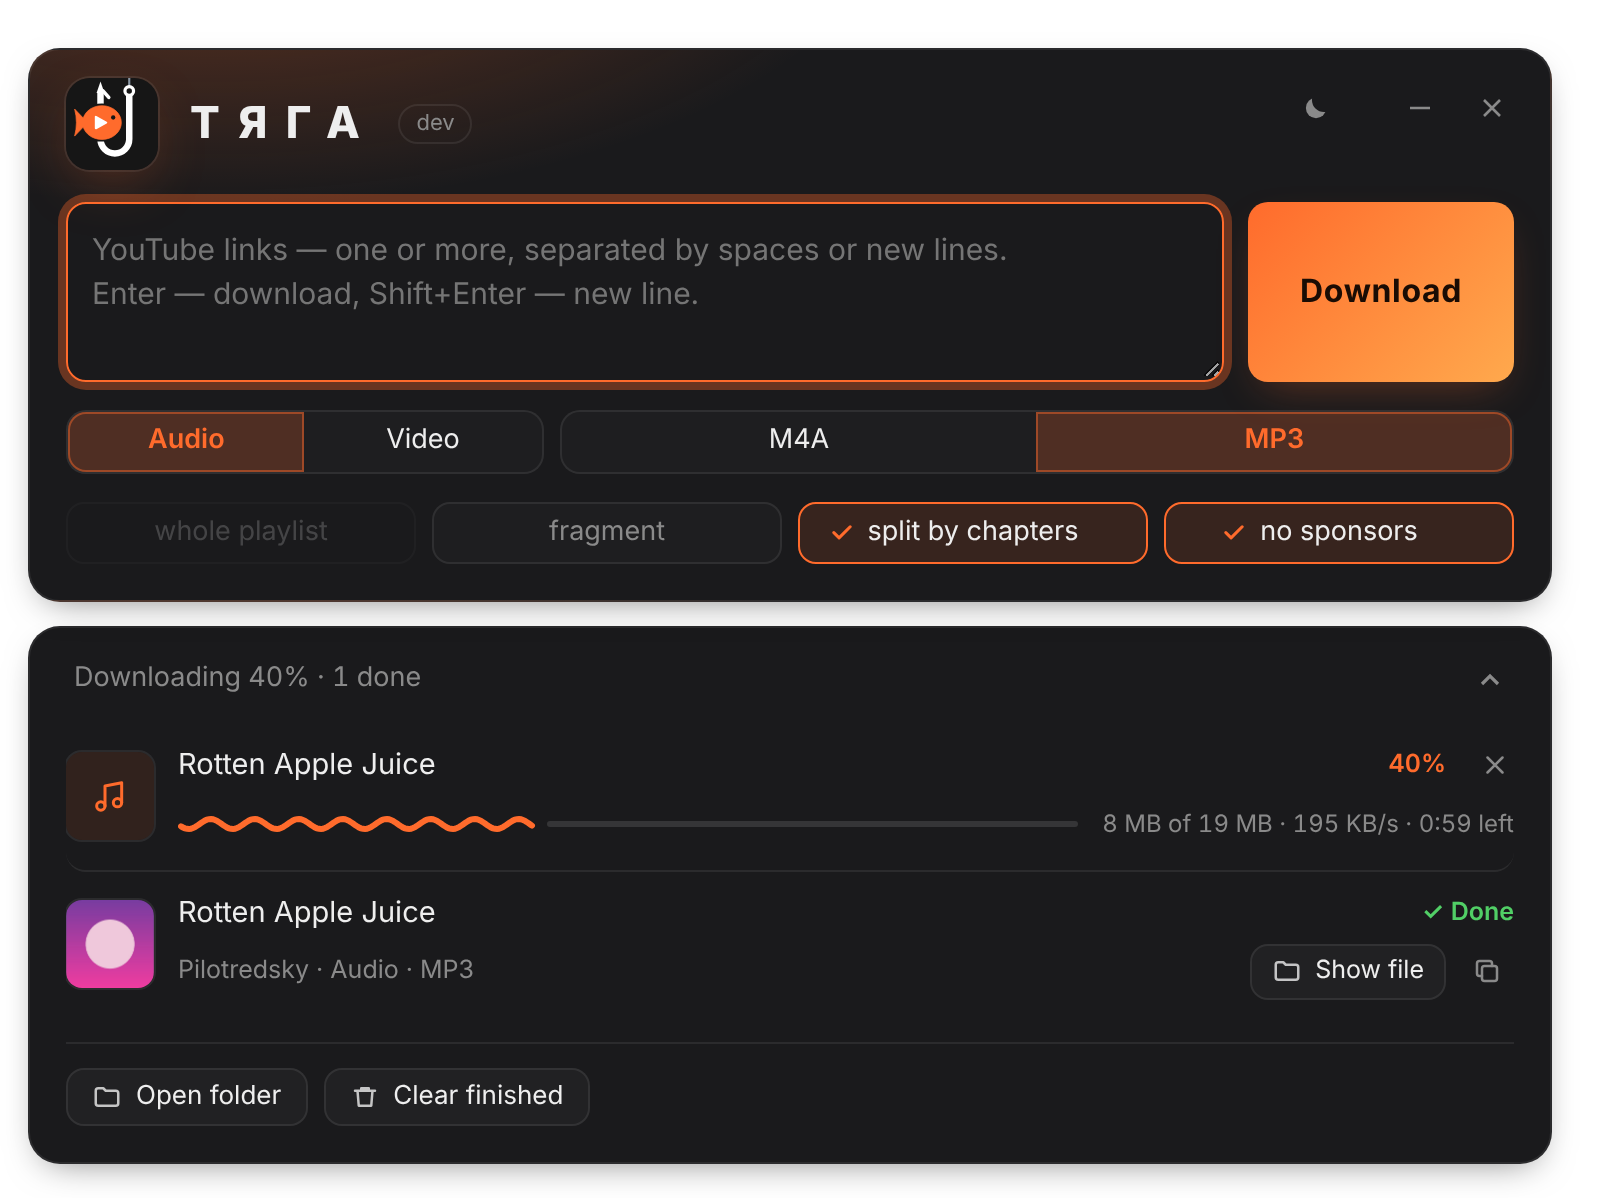
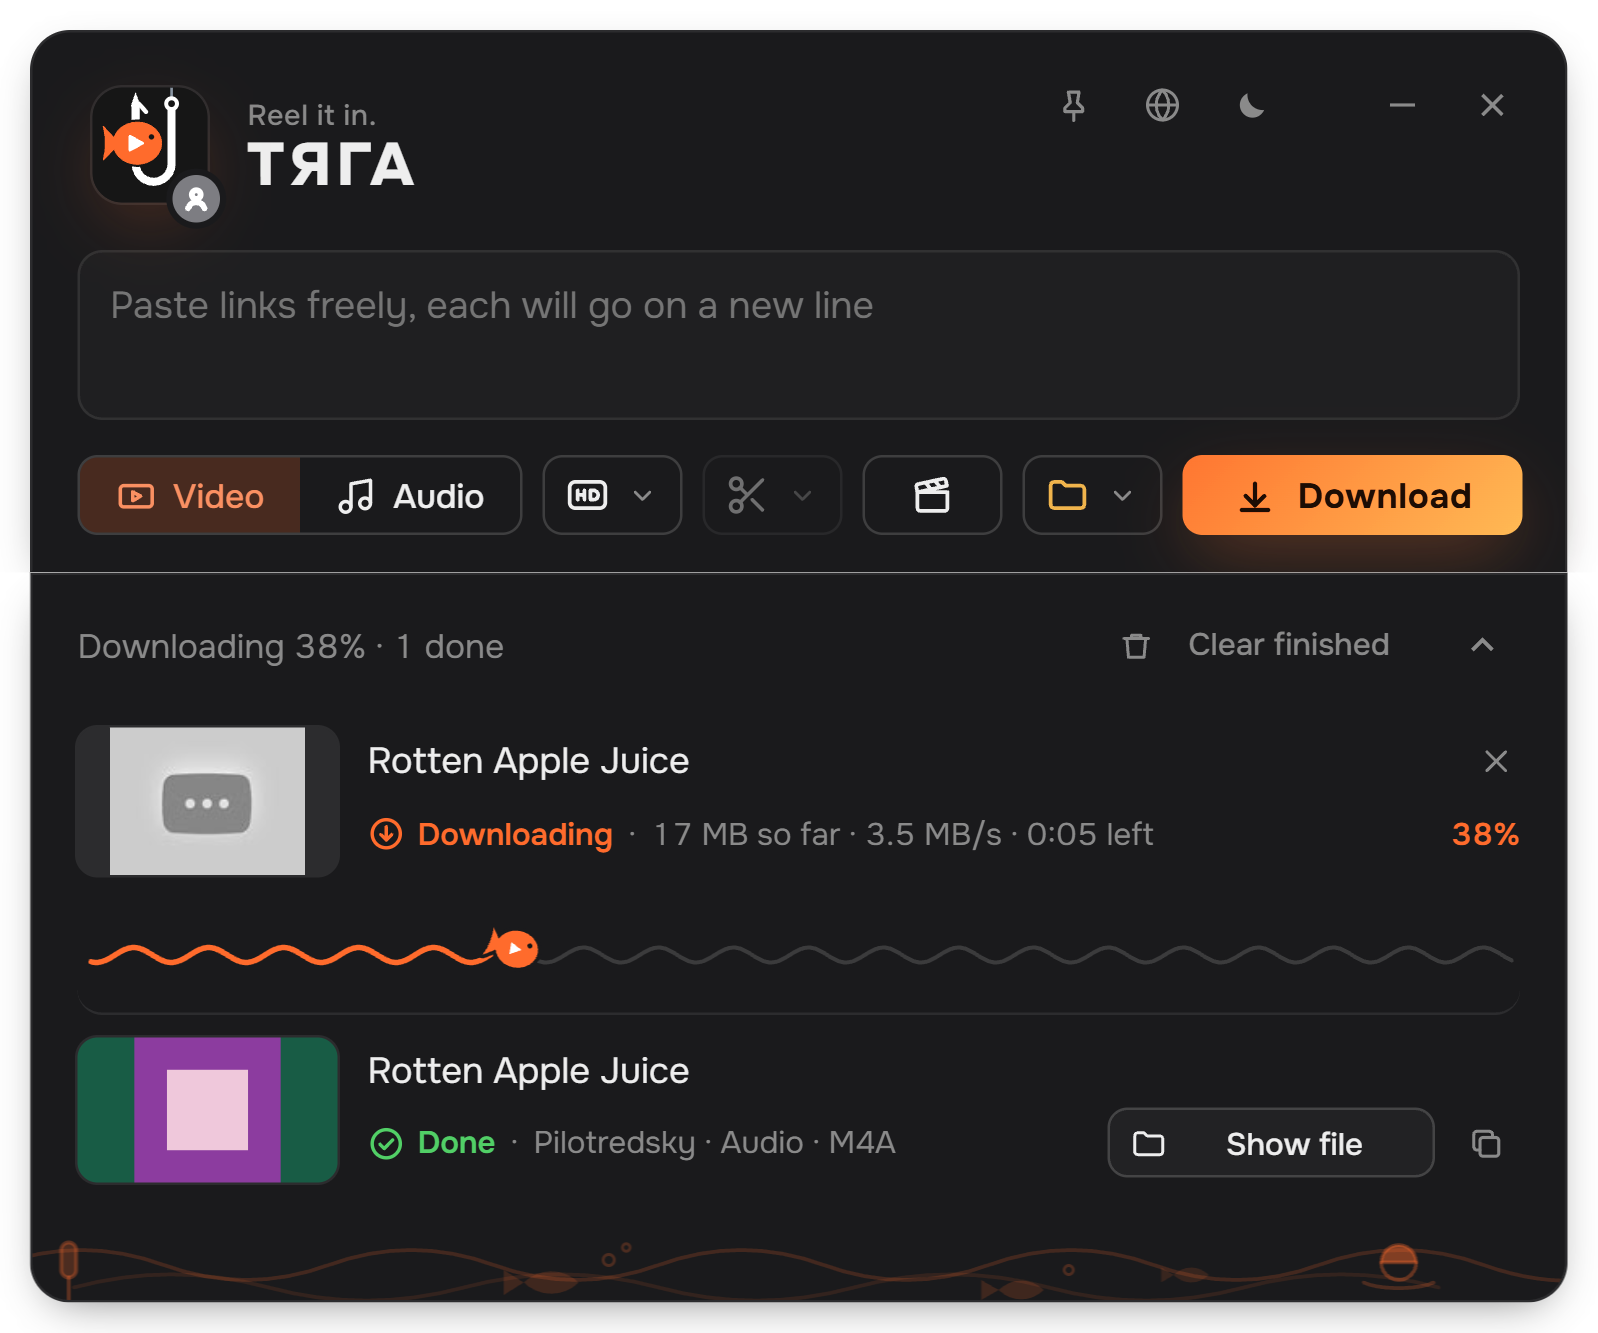
README for 2.0: a new screenshot (one row of options, the fishing line), files go to Downloads\ТЯГА, quality lists the video's own heights, nothing twice, pin on top, the language button, what CI checks

diff --git a/README.md b/README.md
@@ -14,36 +14,37 @@
 ТЯГА downloads video and music from YouTube: paste a link, pick video or audio, get a clean file with proper tags and a real cover. One small program for Windows, nothing to install, nothing left behind. The heavy lifting is done by [yt-dlp](https://github.com/yt-dlp/yt-dlp).
 
 <p align="center">
-  <img src="docs/screenshot.png" width="680" alt="ТЯГА's window: a link box, audio/video switches, one download in progress and one done with its cover">
+  <img src="docs/screenshot.png" width="680" alt="ТЯГА's window: the links box, one row of options, a video downloading on the fishing line and a song done with its cover">
 </p>
 
 ## Run it
 
 1. Download `tyaga.exe` from [Releases](../../releases/latest) and put it in any folder.
 2. Run it. If Windows says "Windows protected your PC": "More info" → "Run anyway" (the program isn't signed, which is normal for small projects).
-3. Paste a link, press Download. Files land in `Downloads\YouTube`.
+3. Paste a link, press Download. Files land in `Downloads\ТЯГА`, in `Видео` and `Аудио` (`Video` and `Audio` in English).
 
 On the first run ТЯГА fetches yt-dlp, ffmpeg and Deno (about 250 MB, once, each checked against its official checksum), unless you already have them installed.
 
 ## What it can do
 
-- **Video:** MP4 at the best quality or capped at 1440p / 1080p / 720p. "For editing" gives H.264 + AAC, which opens in DaVinci Resolve and any editor.
-- **Music:** M4A (the original track) or MP3, clean tags, and the real cover of the album the track is from (from the Apple Music catalogue), not of some compilation that has the same song.
+- **Video:** MP4 at the best quality or capped at a height you pick. ТЯГА looks at the link first, so the list holds only the heights the video really has. "For editing" (the clapperboard) gives H.264 + AAC, which opens in DaVinci Resolve and any editor.
+- **Music:** the original track (M4A) or MP3, clean tags, and the real cover of the album the track is from (from the Apple Music catalogue), not of some compilation that has the same song. Album files are named artist first.
 - **Albums** uploaded as one long video get split into tracks by chapters.
-- **Playlists and channels** go into a numbered folder, or "as one file" with a chapter per video. The progress line shows the track it's on; how far the whole list is, in words.
-- **Tidy folders:** everything goes to `Downloads\ТЯГА`, sorted into Видео and Аудио (Video and Audio in English).
+- **Playlists and channels** go into a numbered folder, or "as one file" with a chapter per video. A deleted or private video is skipped, the rest is downloaded, and Retry fetches only what's missing.
+- **Fragment:** download only a piece: drag the two ends on a slider or pick chapters. A link with `?t=` starts where the link does.
 - **No sponsors:** SponsorBlock cuts the ads and "don't forget to subscribe".
-- **Fragment:** download only a piece: drag the two ends on a slider or pick chapters; a link with `?t=` starts where the link does.
-- **Clear progress, compact:** one row per download, with a thin bar and "8 MB of 19 MB · 1.2 MB/s · 0:59 left" (or in words what it's doing: waiting for YouTube, converting). The same progress shows on ТЯГА's taskbar button, so you can follow it with the window out of the way. When something fails: what happened in plain words, Retry and Copy error.
+- **The fishing line:** one compact row per download, with its picture and "17 MB of 45 MB · 3.5 MB/s · 0:05 left" (or in words what it's doing: waiting for YouTube, converting). Progress is ТЯГА's fish swimming along a thin line; a playlist gets a new cast for every track, and how far the whole list is stays in words. The same progress shows on ТЯГА's taskbar button.
+- **When something fails:** what happened in plain words, with Retry and Copy error right on that line.
+- **Nothing twice:** a file that's already in the folder is reported, not downloaded again.
 - **Into a chat in one go:** a finished file can be copied with one click and pasted into Telegram (or any chat) with Ctrl+V.
-- **Playlists with gaps:** a deleted or private video in a playlist is skipped, the rest is downloaded, and Retry fetches only what's missing.
-- **Sign in to YouTube** for videos that need it: one click, the sign-in comes from the browser you use.
+- **Sign in to YouTube** for videos that need it: one click on the badge by the icon, the sign-in comes from the browser you use.
 
 ## Good to know
 
 - **Portable.** Everything ТЯГА keeps (the tools, settings, sign-in, log) is in one hidden `tyaga-data` folder next to the exe. Nothing goes to AppData. Delete the folder and ТЯГА is gone.
 - **Closing.** × hides it to the tray, downloads go on. Quit is in the tray icon's menu.
-- **Light and dark.** It follows Windows until you pick one with the sun/moon button.
+- **Light and dark, English and Russian.** It follows Windows until you pick with the moon and globe buttons.
+- **Pin on top** keeps the window above the others. Win+D still hides it, as it hides every window.
 - **Your cookies by hand** still work: save them as `youtube-cookies.txt` next to the program. They are the keys to your account: never send or commit them.
 - Something went wrong? `tyaga-data\tyaga.log` says what happened.
 
@@ -55,7 +56,7 @@ You need [Go](https://go.dev/dl/) 1.26 or newer:
 GOOS=windows GOARCH=amd64 CGO_ENABLED=0 go build -tags production -trimpath -ldflags "-s -w -H=windowsgui" -o tyaga.exe .
 ```
 
-Tests: `go test ./...`. The test stand (`stand/README.md`) runs the program against a fake yt-dlp, to see every state without YouTube. Releases: Actions → Release → a version like `v1.2.0`.
+Tests: `go test ./...`. The test stand (`stand/README.md`) runs the program against a fake yt-dlp, to see every state without YouTube; its layout checks (`stand/check.js`) measure the page for anything misaligned, cut off or moving. CI runs all of it on every pull request: the Go tests, the page's script, and the layout checks in every state, both themes, both languages, wide and narrow. Releases: Actions → Release → a version like `v2.0.0`.
 
 ## The name
 
